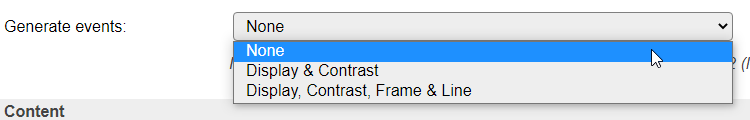
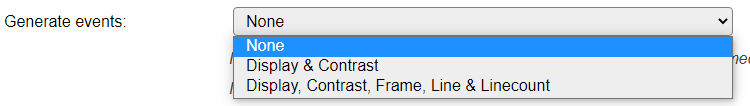
[P036] Update documentation for linecount subcommand

diff --git a/docs/source/Plugin/P036.rst b/docs/source/Plugin/P036.rst
@@ -47,7 +47,7 @@ All user defined texts may contain references to system variables or task values
 
 For example: ``[bme#T#D2.1] {D}C [bme#H]%``
 
-Depending on the build used (NORMAL and CUSTOM), an option to generate events can be set, that will generate an event if the display is turned on or off, the contrast setting is changed, a new frame is shown, or a line is updated using the ``oledframedcmd,<line>,<text>`` command is sent.
+Depending on the build used (NORMAL and CUSTOM), an option to generate events can be set, that will generate an event if the display is turned on or off, the contrast setting is changed, a new frame is shown, the number of lines per frame is changed or a line is updated using the ``oledframedcmd,<line>,<text>`` command.
 
 The device setting:
 
